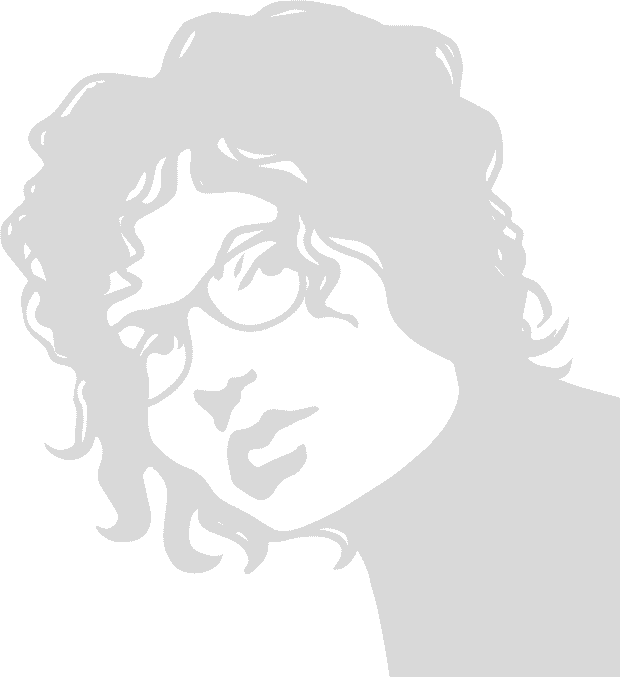
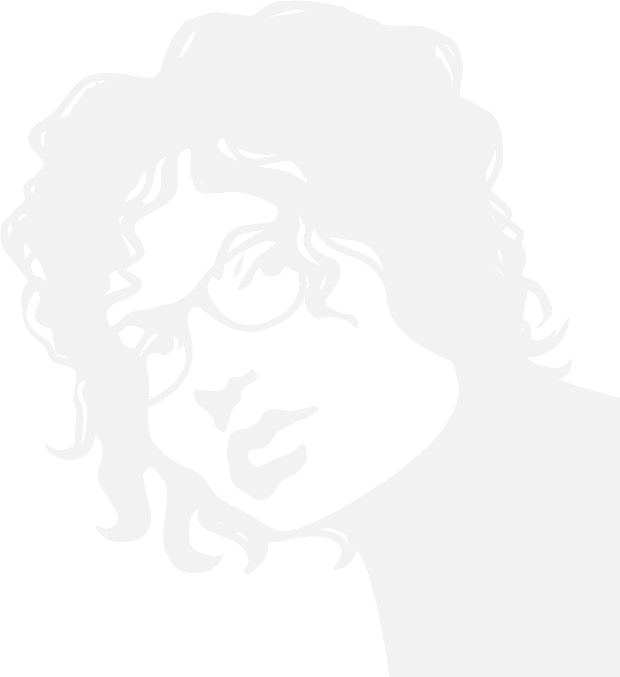
background change on index and thanks pages

diff --git a/thanks.html b/thanks.html
@@ -1,5 +1,5 @@
-<!doctype html>
-<html lang="en">
+<!doctype html>
+<html id="thanks" lang="en">
 <head>
   <title>Contact Barbara Samanich</title>
   <meta charset="utf-8">
@@ -14,9 +14,6 @@
   <![endif]--><!--[if gt IE 8]><!-->
   <script src="https://ajax.googleapis.com/ajax/libs/jquery/3.2.1/jquery.min.js"></script>
   <script src="https://maxcdn.bootstrapcdn.com/bootstrap/3.3.7/js/bootstrap.min.js"></script>
-  <style>
-    body { background: #fff url('img/Sam-thankyou.png') no-repeat fixed right bottom; background-size: contain; }
-  </style>
 </head>
 <body>
   <nav class="navbar navbar-default navbar-fixed-top">
@@ -40,7 +37,7 @@
   <article class="white-popup">
     <h1>Success!</h1>
     <h2 class="stretch">Thank you for reaching out!</h2>
-    <p>Hey<span id="name"></span>! If applicable, I will get back with you at my very earliest opportunity.</p>
+    <p>Hey<span id="name"></span>! I'll get back with you as soon as I can.</p>
   </article>
   <script>
     function getUrlVars() {

diff --git a/css/color.css b/css/color.css
@@ -3,21 +3,35 @@ body {
 }
 
 #home {
+  background: #c36230 url("../img/sun-background-portrait.jpg") no-repeat fixed;
+}
+
+#thanks {
+  background: #bbb url("../img/sun-background-portrait-bw.jpg") no-repeat fixed;
+}
+
+#home, #thanks {
   z-index: 1;
   width: 100%;
   height: 100%;
-  background: #c36230 url("../img/sun-background-portrait.jpg") no-repeat fixed;
   background-position: right bottom;
   background-size: 100% auto;
 }
 
 #home body {
+  background: transparent url("../img/Sam-homebody-bg.svg") no-repeat fixed;
+}
+
+#thanks body {
+  background: transparent url("../img/Sam-thankyou.png") no-repeat fixed;
+}
+
+#home body, #thanks body {
   z-index: 2;
   width: 100%;
   height: 100%;
-  background: transparent url("../img/Sam-homebody-bg.svg") no-repeat fixed;
   background-position: right bottom;
-  background-size: 100% auto;
+  background-size: auto 50%;
 }
 
 header {

diff --git a/css/media.css b/css/media.css
@@ -46,10 +46,15 @@
 @media screen and (min-aspect-ratio: 1/1) {
   #home {
     background: #c36230 url("../img/sun-background-landscape.jpg") no-repeat fixed;
+  }
+  #thanks {
+    background: #b6b6b6 url("../img/sun-background-landscape-bw.jpg") no-repeat fixed;
+  }
+  #home, #thanks {
     background-position: right bottom;
     background-size: auto 100%;
   }
-  #home body {
+  #home body, #thanks body {
     background-size: 50% auto;
   }
 }
